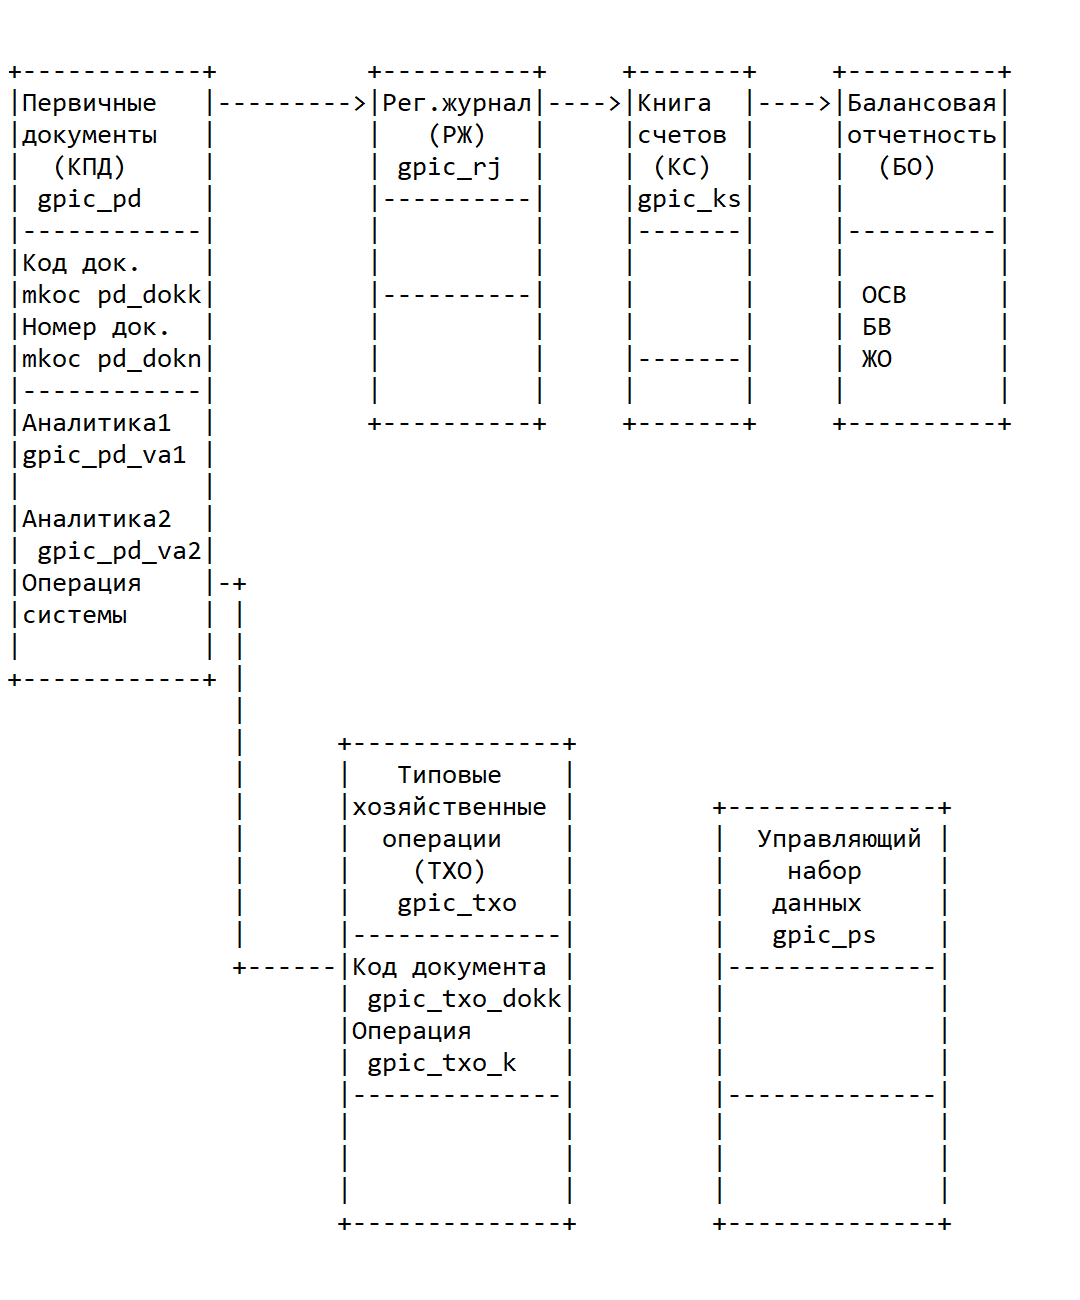
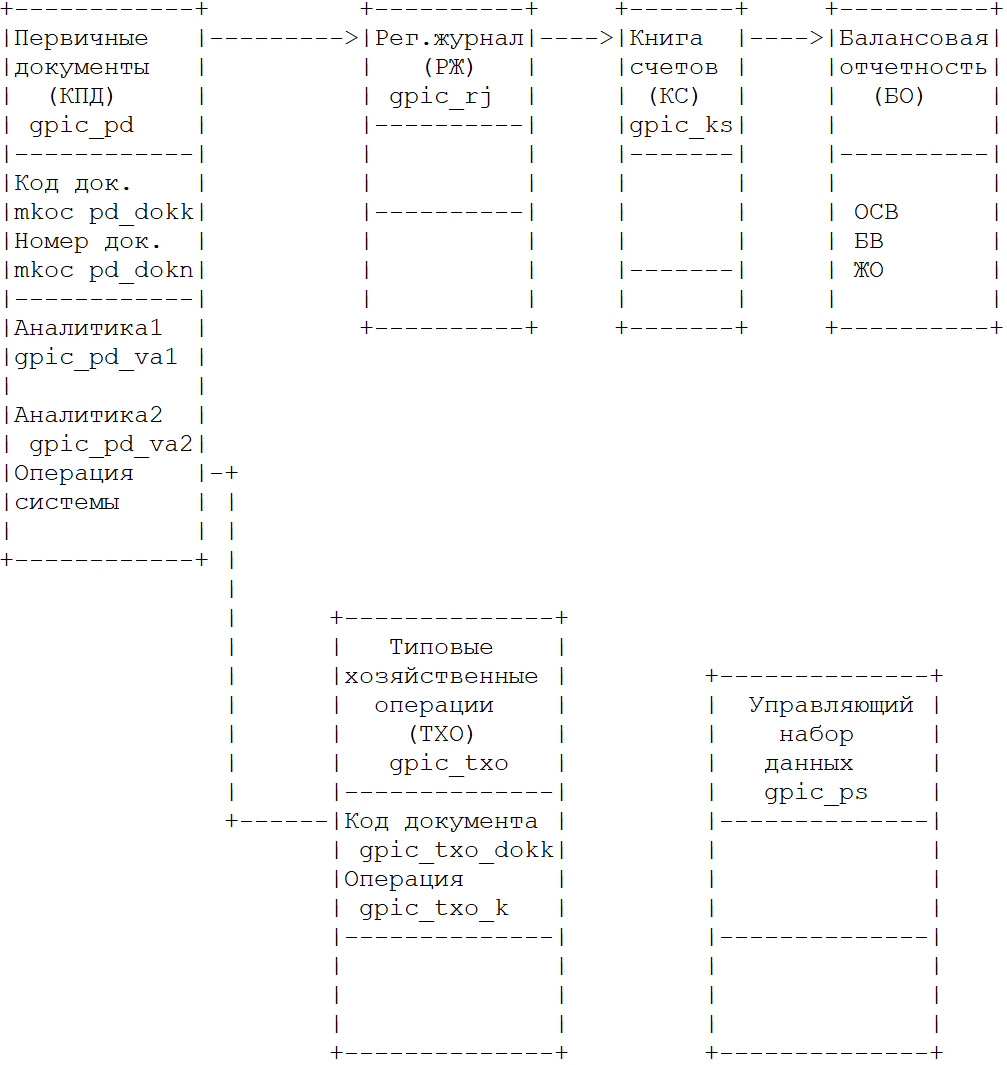
gpi_docs : Updated project gpic_

diff --git a/gpi_docs/_tex/gpic_part2.tex b/gpi_docs/_tex/gpic_part2.tex
@@ -3,10 +3,12 @@
 
 \begin{figure}[!htb]
     \centering
-    \includegraphics[width=15cm]
+    \includegraphics[width=18cm]
         {_assets/gpic_part2.png}
     \caption{Функциональная схема обработки данных}
 \end{figure}
+
+\newpage
 
 \subsection{Описание картотек}
 
@@ -23,19 +25,23 @@
     \centering
     \scriptsize
     \caption{Первичные документы \gpiFIO\/c\_pd}
-    \begin{tabular}{|l|l|l|} 
+    \begin{tabular}{|p{7cm}|p{7cm}|c|}
 
 \hline
-\textbf{Реквизит}           &\textbf{Обозначение}   &\textbf{Тип и значность}   \\ \hline
-код документа < --- opd     &\gpiFIO\/c\_pd\_dokk         &c7                         \\ \hline
-номер документа             &\gpiFIO\/c\_pd\_dokn         &n4                         \\ \hline
-дата документа              &\gpiFIO\/c\_pd\_dokd         &n12                        \\ \hline
-типовая операция < --- txo  &\gpiFIO\/c\_pd\_to           &c10                        \\ \hline
-дебет *txo                  &\gpiFIO\/c\_pd\_db           &n4                         \\ \hline
-дебет наименование *txo     &\gpiFIO\/c\_pd\_dbn          &c10                        \\ \hline
-кредит *txo                 &\gpiFIO\/c\_pd\_kr           &n4                         \\ \hline
-кредит наименование *txo    &\gpiFIO\/c\_pd\_krn          &c10                        \\ \hline
-сумма                       &\gpiFIO\/c\_pd\_rub          &n4                         \\ \hline
+\multicolumn{1}{|c}{\textbf{Реквизит}}
+&\multicolumn{1}{|c}{\textbf{Обозначение}}  
+&\multicolumn{1}{|p{1.6cm}|}{\textbf{Тип и значность}} 
+\\ \hline
+
+код документа < --- opd             &\gpiFIO\/c\_pd\_dokk   &c7     \\ \hline
+номер документа                     &\gpiFIO\/c\_pd\_dokn   &n4     \\ \hline
+дата документа                      &\gpiFIO\/c\_pd\_dokd   &n12    \\ \hline
+типовая операция < --- txo          &\gpiFIO\/c\_pd\_to     &c10    \\ \hline
+дебет *txo                          &\gpiFIO\/c\_pd\_db     &n4     \\ \hline
+дебет наименование *txo             &\gpiFIO\/c\_pd\_dbn    &c10    \\ \hline
+кредит *txo                         &\gpiFIO\/c\_pd\_kr     &n4     \\ \hline
+кредит наименование *txo            &\gpiFIO\/c\_pd\_krn    &c10    \\ \hline
+сумма                               &\gpiFIO\/c\_pd\_rub    &n4     \\ \hline
 
     \end{tabular}
 \end{table}
@@ -44,20 +50,24 @@
     \centering
     \scriptsize
     \caption{Регистрационный журнал (РЖ) \gpiFIO\/c\_rj}
-    \begin{tabular}{|l|l|l|} 
+    \begin{tabular}{|p{7cm}|p{7cm}|c|}
 
 \hline
-\textbf{Реквизит}               &\textbf{Обозначение}   &\textbf{Тип и значность}   \\ \hline
-дата операции                   &\gpiFIO\/c\_rj\_data         &n12                        \\ \hline
-код оправдательного документа   &\gpiFIO\/c\_rj\_dokk         &c7                         \\ \hline
-номер документа                 &\gpiFIO\/c\_rj\_dokn         &n14                        \\ \hline
-дата документа                  &\gpiFIO\/c\_rj\_dokd         &n12                        \\ \hline
-содержание операции             &\gpiFIO\/c\_rj\_to           &c10                        \\ \hline
-дебет, счет                     &\gpiFIO\/c\_rj\_db           &n4                         \\ \hline
-дебет, наименование             &\gpiFIO\/c\_rj\_dbn          &c10                        \\ \hline
-кредит, счет                    &\gpiFIO\/c\_rj\_kr           &n4                         \\ \hline
-кредит наименование             &\gpiFIO\/c\_rj\_krn          &c10                        \\ \hline
-сумма                           &\gpiFIO\/c\_rj\_rub          &n4                         \\ \hline
+\multicolumn{1}{|c}{\textbf{Реквизит}}
+&\multicolumn{1}{|c}{\textbf{Обозначение}}  
+&\multicolumn{1}{|p{1.6cm}|}{\textbf{Тип и значность}} 
+\\ \hline
+
+дата операции                       &\gpiFIO\/c\_rj\_data   &n12    \\ \hline
+код оправдательного документа       &\gpiFIO\/c\_rj\_dokk   &c7     \\ \hline
+номер документа                     &\gpiFIO\/c\_rj\_dokn   &n14    \\ \hline
+дата документа                      &\gpiFIO\/c\_rj\_dokd   &n12    \\ \hline
+содержание операции                 &\gpiFIO\/c\_rj\_to     &c10    \\ \hline
+дебет, счет                         &\gpiFIO\/c\_rj\_db     &n4     \\ \hline
+дебет, наименование                 &\gpiFIO\/c\_rj\_dbn    &c10    \\ \hline
+кредит, счет                        &\gpiFIO\/c\_rj\_kr     &n4     \\ \hline
+кредит наименование                 &\gpiFIO\/c\_rj\_krn    &c10    \\ \hline
+сумма                               &\gpiFIO\/c\_rj\_rub    &n4     \\ \hline
 
     \end{tabular}
 \end{table}
@@ -66,21 +76,25 @@
     \centering
     \scriptsize
     \caption{Книга счетов(КС) \gpiFIO\/c\_ks}
-    \begin{tabular}{|l|l|l|} 
+    \begin{tabular}{|p{7cm}|p{7cm}|c|}
 
 \hline
-\textbf{Реквизит}               &\textbf{Обозначение}   &\textbf{Тип и значность}   \\ \hline
-дата операции                   &\gpiFIO\/c\_ks\_data         &n12                        \\ \hline
-код оправдательного документа   &\gpiFIO\/c\_ks\_dokk         &c7                         \\ \hline
-номер документа                 &\gpiFIO\/c\_ks\_dokn         &n4                         \\ \hline
-дата документа                  &\gpiFIO\/c\_ks\_dokd         &n12                        \\ \hline
-операции                        &\gpiFIO\/c\_ks\_to           &c10                        \\ \hline
-счет                            &\gpiFIO\/c\_ks\_s            &n4                         \\ \hline
-счёт наименование               &\gpiFIO\/c\_ks\_sn           &c10                        \\ \hline
-кор. счёт                       &\gpiFIO\/c\_ks\_ks           &n4                         \\ \hline
-кор. счет наименование          &\gpiFIO\/c\_ks\_ksn          &c10                        \\ \hline
-сумма дб                        &\gpiFIO\/c\_ks\_rubdb        &n4                         \\ \hline
-сумма кр                        &\gpiFIO\/c\_ks\_rubkr        &n4                         \\ \hline
+\multicolumn{1}{|c}{\textbf{Реквизит}}
+&\multicolumn{1}{|c}{\textbf{Обозначение}}  
+&\multicolumn{1}{|p{1.6cm}|}{\textbf{Тип и значность}} 
+\\ \hline
+
+дата операции                       &\gpiFIO\/c\_ks\_data   &n12    \\ \hline
+код оправдательного документа       &\gpiFIO\/c\_ks\_dokk   &c7     \\ \hline
+номер документа                     &\gpiFIO\/c\_ks\_dokn   &n4     \\ \hline
+дата документа                      &\gpiFIO\/c\_ks\_dokd   &n12    \\ \hline
+операции                            &\gpiFIO\/c\_ks\_to     &c10    \\ \hline
+счет                                &\gpiFIO\/c\_ks\_s      &n4     \\ \hline
+счёт наименование                   &\gpiFIO\/c\_ks\_sn     &c10    \\ \hline
+кор. счёт                           &\gpiFIO\/c\_ks\_ks     &n4     \\ \hline
+кор. счет наименование              &\gpiFIO\/c\_ks\_ksn    &c10    \\ \hline
+сумма дб                            &\gpiFIO\/c\_ks\_rubdb  &n4     \\ \hline
+сумма кр                            &\gpiFIO\/c\_ks\_rubkr  &n4     \\ \hline
 
     \end{tabular}
 \end{table}
@@ -89,16 +103,20 @@
     \centering
     \scriptsize
     \caption{Книга счетов(КС) \gpiFIO\/c\_txo}
-    \begin{tabular}{|l|l|l|} 
+    \begin{tabular}{|p{7cm}|p{7cm}|c|}
 
 \hline
-\textbf{Реквизит}               &\textbf{Обозначение}   &\textbf{Тип и значность}   \\ \hline
-код документа < --- opd         &\gpiFIO\/c\_txo\_dokk        &c7                         \\ \hline
-код типовой операции            &\gpiFIO\/c\_txo\_k           &c10                        \\ \hline
-дебет, счёт < --- ps\_1         &\gpiFIO\/c\_txo\_db          &n4                         \\ \hline
-дебет, наименование * ps\_1     &\gpiFIO\/c\_txo\_dbn         &c10                        \\ \hline
-кредит < --- ps\_2              &\gpiFIO\/c\_txo\_kr          &n4                         \\ \hline
-кредит, наименование * ps\_2    &\gpiFIO\/c\_txo\_krn         &c10                        \\ \hline
+\multicolumn{1}{|c}{\textbf{Реквизит}}
+&\multicolumn{1}{|c}{\textbf{Обозначение}}  
+&\multicolumn{1}{|p{1.6cm}|}{\textbf{Тип и значность}} 
+\\ \hline
+
+код документа < --- opd             &\gpiFIO\/c\_txo\_dokk  &c7     \\ \hline
+код типовой операции                &\gpiFIO\/c\_txo\_k     &c10    \\ \hline
+дебет, счёт < --- ps\_1             &\gpiFIO\/c\_txo\_db    &n4     \\ \hline
+дебет, наименование * ps\_1         &\gpiFIO\/c\_txo\_dbn   &c10    \\ \hline
+кредит < --- ps\_2                  &\gpiFIO\/c\_txo\_kr    &n4     \\ \hline
+кредит, наименование * ps\_2        &\gpiFIO\/c\_txo\_krn   &c10    \\ \hline
 
     \end{tabular}
 \end{table}
@@ -111,22 +129,19 @@
     \centering
     \scriptsize
     \caption{Описание работ}
-    \begin{tabular}{|p{8cm}|p{8cm}|} 
+    \begin{tabular}{|p{6cm}|p{11cm}|} 
 
 % = = = = = = = = = =
 
 \hline
-
-% = = = = = = = = = =
-
-\textbf{Группа работ}
-&
-\textbf{Работы}
+\multicolumn{1}{|c}{\textbf{Группа работ}}
+&\multicolumn{1}{|c|}{\textbf{Работы}}
 \\ \hline
 
 % = = = = = = = = = =
 
-Формирование и разноска первичных документов \par
+Формирование и разноска первичных \par
+документов \par
 \hspace{0pt} \par
 \textbf{\gpiFIO\/c\_Документы}
 &

diff --git a/gpi_docs/_tex/gpic_part3.tex b/gpi_docs/_tex/gpic_part3.tex
@@ -5,4 +5,4 @@
 \subsection{Скриншоты карточек}
 \subsection{Образцы первичных документов}
 \subsection{Образцы печатных форм}
-\newpage
+% \newpage
